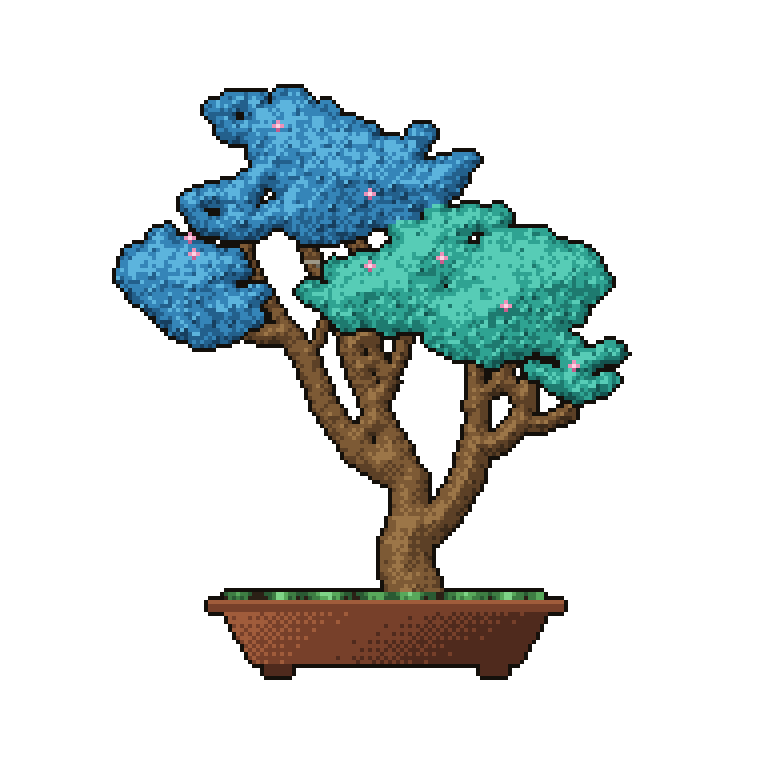
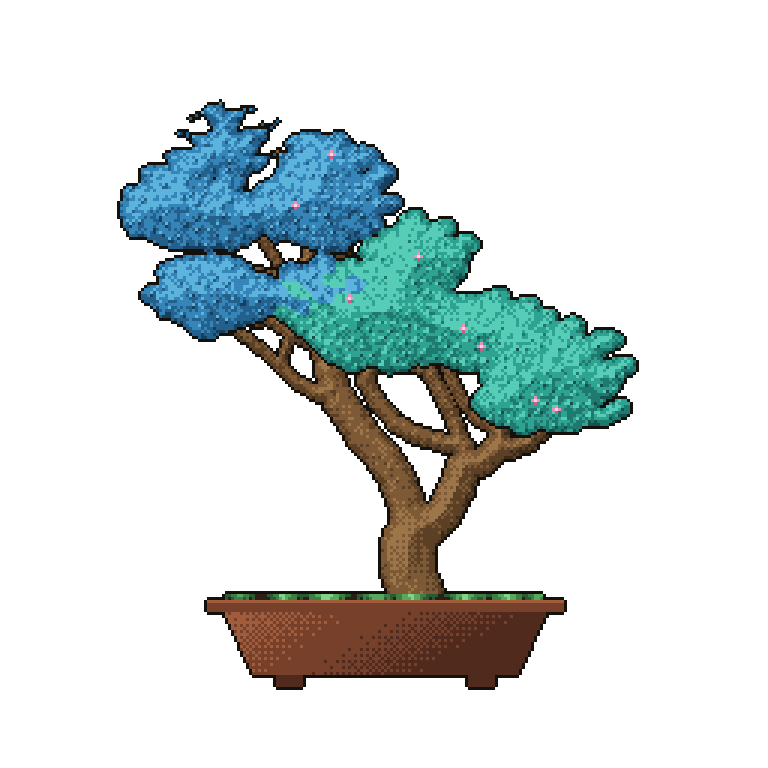
feat: bump native buffer to 256x256 for richer detail
All spatial constants (pot, margins, trunk/branch lengths, pad counts,
sway amplitude) scale with the new resolution; more foliage pads and
finer twigs relative to the tree. Default display upscale drops 4x -> 3x
to keep the output at 768px.

Claude-Session: https://claude.ai/code/session_016wzfiLTiSENdkKTfsVTFZx

Changed region(s): [[0.125, 0.0938, 0.8438, 0.9062]]

diff --git a/dist/src/skeleton.js b/dist/src/skeleton.js
@@ -4,9 +4,9 @@ exports.GROUND_Y = exports.H = exports.W = void 0;
 exports.buildSkeleton = buildSkeleton;
 const seed_1 = require("./seed");
 const poisson_1 = require("./poisson");
-exports.W = 192;
-exports.H = 192;
-exports.GROUND_Y = 150;
+exports.W = 256;
+exports.H = 256;
+exports.GROUND_Y = 200;
 /**
  * Build the branch graph: a stochastic parametric L-system grows the trunk and
  * primary branches, then space colonization (Runions) grows fine twigs at each
@@ -15,7 +15,7 @@ exports.GROUND_Y = 150;
 function buildSkeleton(dna, rng) {
     const segs = [];
     const padSites = [];
-    const baseX = exports.W / 2 - Math.sign(dna.lean) * (dna.style === 'cascade' ? 18 : 8);
+    const baseX = exports.W / 2 - Math.sign(dna.lean) * (dna.style === 'cascade' ? 24 : 11);
     const sPhase = rng() * Math.PI * 2; // phase of the trunk's S-curve
     let clock = 0;
     const shapedAngle = (dir, order, traveled, totalLen) => {
@@ -38,7 +38,7 @@ function buildSkeleton(dna, rng) {
         return out;
     };
     const grow = (x, y, dir, len, order, parent, traveled) => {
-        if (len < 6.5 || order > dna.iterations) {
+        if (len < 8.5 || order > dna.iterations) {
             if (order >= 2)
                 padSites.push({ x, y, segIdx: parent, order });
             return;
@@ -54,16 +54,16 @@ function buildSkeleton(dna, rng) {
             pdir = shapedAngle(pdir, order, traveled, dna.trunkLen * 2.2);
             pdir += (0, seed_1.range)(rng, -0.22, 0.22) * (order === 0 ? 1.2 : 1); // trunk gets S-curves
             // keep the tree inside the canvas
-            const margin = 14;
+            const margin = 19;
             if (px < margin)
                 pdir += (Math.abs(angleDiff(0, pdir)) < 1.8 ? 0 : 0.3);
             if (px < margin && Math.cos(pdir) < 0)
                 pdir = mixAngle(pdir, 0, 0.5);
             if (px > exports.W - margin && Math.cos(pdir) > 0)
                 pdir = mixAngle(pdir, Math.PI, 0.5);
-            if (py < 18 && Math.sin(pdir) < 0)
+            if (py < 24 && Math.sin(pdir) < 0)
                 pdir = mixAngle(pdir, 0.2 * sideSign, 0.4);
-            if (py > exports.H - 8 && Math.sin(pdir) > 0)
+            if (py > exports.H - 10 && Math.sin(pdir) > 0)
                 pdir = mixAngle(pdir, -Math.PI / 2, 0.5);
             const sl = stepLen * (0, seed_1.range)(rng, 0.85, 1.15);
             const nx = px + Math.cos(pdir) * sl;
@@ -99,7 +99,7 @@ function buildSkeleton(dna, rng) {
     for (const s of segs)
         s.epoch = s.birth / 0.75 <= dna.epochSplit ? 0 : 1;
     // cap foliage pads: dense trees would otherwise explode twig counts
-    const maxPads = 34 + Math.round(dna.foliage * 26);
+    const maxPads = 45 + Math.round(dna.foliage * 35);
     let sites = padSites;
     if (sites.length > maxPads) {
         const step = sites.length / maxPads;
@@ -117,7 +117,7 @@ function buildSkeleton(dna, rng) {
         const birth = parentSeg ? parentSeg.birth + 0.05 : 0.5;
         const dead = deadSet.has(i);
         const epoch = parentSeg ? parentSeg.epoch : 1;
-        const padR = (6 + dna.foliage * 8) * (0, seed_1.range)(rng, 0.8, 1.2);
+        const padR = (8 + dna.foliage * 10.5) * (0, seed_1.range)(rng, 0.8, 1.2);
         const tips = growTwigs(segs, site, dead, birth, padR, dna, rng);
         pads.push({ x: site.x, y: site.y, r: padR, birth: Math.min(birth, 0.95), dead, epoch, tips });
     });

diff --git a/dist/src/render.js b/dist/src/render.js
@@ -24,10 +24,10 @@ function renderFrame(dna, skel, opts = {}) {
         ? (x) => x
         : (x, y) => {
             const hf = Math.max(0, skel.groundY - y) / skel.groundY;
-            const amp = 1.5 * hf * hf + 0.25 * hf;
-            const wave = Math.sin(phase + (skel.groundY - y) * 0.05 + x * 0.012);
+            const amp = 2.0 * hf * hf + 0.33 * hf;
+            const wave = Math.sin(phase + (skel.groundY - y) * 0.0375 + x * 0.009);
             // noise sampled on a circle in noise-space so the loop is seamless
-            const n = noise(x * 0.03 + Math.cos(phase) * 0.8, y * 0.03 + Math.sin(phase) * 0.8);
+            const n = noise(x * 0.0225 + Math.cos(phase) * 0.8, y * 0.0225 + Math.sin(phase) * 0.8);
             return x + amp * (0.7 * wave + 0.55 * n);
         };
     // rasterize wood into alive/dead masks, then shade with SDF volume + dithering
@@ -68,31 +68,35 @@ function renderFrame(dna, skel, opts = {}) {
 function drawPot(frame, dna, skel, noise) {
     const cx = skeleton_1.W / 2;
     const gy = skel.groundY;
+    const rimHalf = Math.round(skeleton_1.W * 0.23); // 59 at 256
+    const bodyHalf = Math.round(rimHalf * 0.9); // 53
+    const bodyH = Math.round(skeleton_1.W * 0.082); // 21
     // rim
-    for (let y = gy; y <= gy + 2; y++) {
-        for (let x = cx - 44; x <= cx + 44; x++) {
+    for (let y = gy; y <= gy + 3; y++) {
+        for (let x = cx - rimHalf; x <= cx + rimHalf; x++) {
             frame.set(x, y, y === gy ? palette_1.POT[2] : palette_1.POT[1], raster_1.CLS_POT);
         }
     }
     // body with simple lit-left banding + dithering
-    for (let y = gy + 3; y <= gy + 15; y++) {
-        const half = Math.round(40 - ((y - gy - 3) / 12) * 7);
+    for (let y = gy + 4; y <= gy + 3 + bodyH; y++) {
+        const half = Math.round(bodyHalf - ((y - gy - 4) / bodyH) * bodyHalf * 0.18);
         for (let x = cx - half; x <= cx + half; x++) {
             const u = (x - (cx - half)) / (half * 2);
-            const v = 1 - u * 0.9 - (y - gy) * 0.02 + (0, shade_1.bayer)(x, y) * 0.4;
+            const v = 1 - u * 0.9 - (y - gy) * 0.015 + (0, shade_1.bayer)(x, y) * 0.4;
             const band = (0, seed_1.clamp)(Math.round(v * (palette_1.POT.length - 1)), 0, palette_1.POT.length - 1);
             frame.set(x, y, palette_1.POT[band], raster_1.CLS_POT);
         }
     }
     // feet
-    for (let y = gy + 16; y <= gy + 18; y++) {
-        for (let x = cx - 30; x <= cx - 24; x++)
+    const footIn = Math.round(bodyHalf * 0.6);
+    for (let y = gy + 4 + bodyH; y <= gy + 7 + bodyH; y++) {
+        for (let x = cx - footIn - 4; x <= cx - footIn + 4; x++)
             frame.set(x, y, palette_1.POT[0], raster_1.CLS_POT);
-        for (let x = cx + 24; x <= cx + 30; x++)
+        for (let x = cx + footIn - 4; x <= cx + footIn + 4; x++)
             frame.set(x, y, palette_1.POT[0], raster_1.CLS_POT);
     }
     // soil mosaic: 52 weeks of contributions across the pot's mouth
-    const soilHalf = 40;
+    const soilHalf = bodyHalf;
     const soilW = soilHalf * 2;
     for (let i = 0; i < 52; i++) {
         const x0 = cx - soilHalf + Math.floor((i * soilW) / 52);

diff --git a/src/skeleton.ts b/src/skeleton.ts
@@ -39,9 +39,9 @@ export interface Skeleton {
   groundY: number;
 }
 
-export const W = 192;
-export const H = 192;
-export const GROUND_Y = 150;
+export const W = 256;
+export const H = 256;
+export const GROUND_Y = 200;
 
 interface PadSite {
   x: number;
@@ -58,7 +58,7 @@ interface PadSite {
 export function buildSkeleton(dna: BonsaiDNA, rng: Rng): Skeleton {
   const segs: Seg[] = [];
   const padSites: PadSite[] = [];
-  const baseX = W / 2 - Math.sign(dna.lean) * (dna.style === 'cascade' ? 18 : 8);
+  const baseX = W / 2 - Math.sign(dna.lean) * (dna.style === 'cascade' ? 24 : 11);
   const sPhase = rng() * Math.PI * 2; // phase of the trunk's S-curve
   let clock = 0;
 
@@ -89,7 +89,7 @@ export function buildSkeleton(dna: BonsaiDNA, rng: Rng): Skeleton {
     parent: number,
     traveled: number,
   ): void => {
-    if (len < 6.5 || order > dna.iterations) {
+    if (len < 8.5 || order > dna.iterations) {
       if (order >= 2) padSites.push({ x, y, segIdx: parent, order });
       return;
     }
@@ -105,12 +105,12 @@ export function buildSkeleton(dna: BonsaiDNA, rng: Rng): Skeleton {
       pdir = shapedAngle(pdir, order, traveled, dna.trunkLen * 2.2);
       pdir += range(rng, -0.22, 0.22) * (order === 0 ? 1.2 : 1); // trunk gets S-curves
       // keep the tree inside the canvas
-      const margin = 14;
+      const margin = 19;
       if (px < margin) pdir += (Math.abs(angleDiff(0, pdir)) < 1.8 ? 0 : 0.3);
       if (px < margin && Math.cos(pdir) < 0) pdir = mixAngle(pdir, 0, 0.5);
       if (px > W - margin && Math.cos(pdir) > 0) pdir = mixAngle(pdir, Math.PI, 0.5);
-      if (py < 18 && Math.sin(pdir) < 0) pdir = mixAngle(pdir, 0.2 * sideSign, 0.4);
-      if (py > H - 8 && Math.sin(pdir) > 0) pdir = mixAngle(pdir, -Math.PI / 2, 0.5);
+      if (py < 24 && Math.sin(pdir) < 0) pdir = mixAngle(pdir, 0.2 * sideSign, 0.4);
+      if (py > H - 10 && Math.sin(pdir) > 0) pdir = mixAngle(pdir, -Math.PI / 2, 0.5);
 
       const sl = stepLen * range(rng, 0.85, 1.15);
       const nx = px + Math.cos(pdir) * sl;
@@ -149,7 +149,7 @@ export function buildSkeleton(dna: BonsaiDNA, rng: Rng): Skeleton {
   for (const s of segs) s.epoch = s.birth / 0.75 <= dna.epochSplit ? 0 : 1;
 
   // cap foliage pads: dense trees would otherwise explode twig counts
-  const maxPads = 34 + Math.round(dna.foliage * 26);
+  const maxPads = 45 + Math.round(dna.foliage * 35);
   let sites = padSites;
   if (sites.length > maxPads) {
     const step = sites.length / maxPads;
@@ -169,7 +169,7 @@ export function buildSkeleton(dna: BonsaiDNA, rng: Rng): Skeleton {
     const birth = parentSeg ? parentSeg.birth + 0.05 : 0.5;
     const dead = deadSet.has(i);
     const epoch = parentSeg ? parentSeg.epoch : 1;
-    const padR = (6 + dna.foliage * 8) * range(rng, 0.8, 1.2);
+    const padR = (8 + dna.foliage * 10.5) * range(rng, 0.8, 1.2);
     const tips = growTwigs(segs, site, dead, birth, padR, dna, rng);
     pads.push({ x: site.x, y: site.y, r: padR, birth: Math.min(birth, 0.95), dead, epoch, tips });
   });

diff --git a/src/render.ts b/src/render.ts
@@ -35,10 +35,10 @@ export function renderFrame(dna: BonsaiDNA, skel: Skeleton, opts: RenderOpts = {
     ? (x) => x
     : (x, y) => {
       const hf = Math.max(0, skel.groundY - y) / skel.groundY;
-      const amp = 1.5 * hf * hf + 0.25 * hf;
-      const wave = Math.sin(phase + (skel.groundY - y) * 0.05 + x * 0.012);
+      const amp = 2.0 * hf * hf + 0.33 * hf;
+      const wave = Math.sin(phase + (skel.groundY - y) * 0.0375 + x * 0.009);
       // noise sampled on a circle in noise-space so the loop is seamless
-      const n = noise(x * 0.03 + Math.cos(phase) * 0.8, y * 0.03 + Math.sin(phase) * 0.8);
+      const n = noise(x * 0.0225 + Math.cos(phase) * 0.8, y * 0.0225 + Math.sin(phase) * 0.8);
       return x + amp * (0.7 * wave + 0.55 * n);
     };
 
@@ -82,31 +82,35 @@ export function renderFrame(dna: BonsaiDNA, skel: Skeleton, opts: RenderOpts = {
 function drawPot(frame: Frame, dna: BonsaiDNA, skel: Skeleton, noise: Noise2): void {
   const cx = W / 2;
   const gy = skel.groundY;
+  const rimHalf = Math.round(W * 0.23);       // 59 at 256
+  const bodyHalf = Math.round(rimHalf * 0.9); // 53
+  const bodyH = Math.round(W * 0.082);        // 21
 
   // rim
-  for (let y = gy; y <= gy + 2; y++) {
-    for (let x = cx - 44; x <= cx + 44; x++) {
+  for (let y = gy; y <= gy + 3; y++) {
+    for (let x = cx - rimHalf; x <= cx + rimHalf; x++) {
       frame.set(x, y, y === gy ? POT[2] : POT[1], CLS_POT);
     }
   }
   // body with simple lit-left banding + dithering
-  for (let y = gy + 3; y <= gy + 15; y++) {
-    const half = Math.round(40 - ((y - gy - 3) / 12) * 7);
+  for (let y = gy + 4; y <= gy + 3 + bodyH; y++) {
+    const half = Math.round(bodyHalf - ((y - gy - 4) / bodyH) * bodyHalf * 0.18);
     for (let x = cx - half; x <= cx + half; x++) {
       const u = (x - (cx - half)) / (half * 2);
-      const v = 1 - u * 0.9 - (y - gy) * 0.02 + bayer(x, y) * 0.4;
+      const v = 1 - u * 0.9 - (y - gy) * 0.015 + bayer(x, y) * 0.4;
       const band = clamp(Math.round(v * (POT.length - 1)), 0, POT.length - 1);
       frame.set(x, y, POT[band], CLS_POT);
     }
   }
   // feet
-  for (let y = gy + 16; y <= gy + 18; y++) {
-    for (let x = cx - 30; x <= cx - 24; x++) frame.set(x, y, POT[0], CLS_POT);
-    for (let x = cx + 24; x <= cx + 30; x++) frame.set(x, y, POT[0], CLS_POT);
+  const footIn = Math.round(bodyHalf * 0.6);
+  for (let y = gy + 4 + bodyH; y <= gy + 7 + bodyH; y++) {
+    for (let x = cx - footIn - 4; x <= cx - footIn + 4; x++) frame.set(x, y, POT[0], CLS_POT);
+    for (let x = cx + footIn - 4; x <= cx + footIn + 4; x++) frame.set(x, y, POT[0], CLS_POT);
   }
 
   // soil mosaic: 52 weeks of contributions across the pot's mouth
-  const soilHalf = 40;
+  const soilHalf = bodyHalf;
   const soilW = soilHalf * 2;
   for (let i = 0; i < 52; i++) {
     const x0 = cx - soilHalf + Math.floor((i * soilW) / 52);

diff --git a/dist/src/dna.js b/dist/src/dna.js
@@ -16,8 +16,8 @@ function deriveDna(metrics, rng) {
     const activity = sat(Math.log10(metrics.totalContributions + 1) / 4.5); // ~30k commits -> 1.0
     // account age -> trunk height, growth iterations, base thickness
     const iterations = (0, seed_1.clamp)(3 + Math.floor(ageYears / 3), 3, 6);
-    const trunkLen = 20 + Math.min(ageYears, 12) * 1.9 + (0, seed_1.range)(rng, -1.5, 1.5);
-    const baseRadius = (0, seed_1.clamp)(2.5 + Math.min(ageYears, 12) * 0.26 + activity * 1.6, 2.5, 6.5);
+    const trunkLen = 27 + Math.min(ageYears, 12) * 2.5 + (0, seed_1.range)(rng, -2, 2);
+    const baseRadius = (0, seed_1.clamp)(3.3 + Math.min(ageYears, 12) * 0.35 + activity * 2.1, 3.3, 8.7);
     // total contributions -> branch density & foliage
     const branchChance = 0.26 + 0.3 * activity + (0, seed_1.range)(rng, -0.03, 0.03);
     const foliage = sat(0.35 + 0.6 * activity + (0, seed_1.range)(rng, -0.05, 0.05));

diff --git a/dist/src/cli.js b/dist/src/cli.js
@@ -50,7 +50,7 @@ Options:
   --fixture  Path to a normalized metrics JSON (offline, reproducible)
   --synth    Fabricate deterministic demo metrics from a name (offline)
   --out      Output directory (default: output)
-  --scale    Integer upscale factor for SVG/PNG (default: 4)
+  --scale    Integer upscale factor for SVG/PNG (default: 3)
 
 Outputs: bonsai.svg, bonsai.png, bonsai.gif (wind), bonsai-growth.gif (timelapse)
 `;
@@ -67,7 +67,7 @@ async function main() {
     const fixture = arg('fixture');
     const synth = arg('synth');
     const outDir = arg('out') ?? 'output';
-    const scale = Number(arg('scale') ?? 4);
+    const scale = Number(arg('scale') ?? 3);
     let metrics;
     if (fixture) {
         metrics = (0, data_1.loadFixture)(fixture);

diff --git a/src/cli.ts b/src/cli.ts
@@ -17,7 +17,7 @@ Options:
   --fixture  Path to a normalized metrics JSON (offline, reproducible)
   --synth    Fabricate deterministic demo metrics from a name (offline)
   --out      Output directory (default: output)
-  --scale    Integer upscale factor for SVG/PNG (default: 4)
+  --scale    Integer upscale factor for SVG/PNG (default: 3)
 
 Outputs: bonsai.svg, bonsai.png, bonsai.gif (wind), bonsai-growth.gif (timelapse)
 `;
@@ -36,7 +36,7 @@ async function main(): Promise<void> {
   const fixture = arg('fixture');
   const synth = arg('synth');
   const outDir = arg('out') ?? 'output';
-  const scale = Number(arg('scale') ?? 4);
+  const scale = Number(arg('scale') ?? 3);
 
   let metrics: Metrics;
   if (fixture) {

diff --git a/src/dna.ts b/src/dna.ts
@@ -21,8 +21,8 @@ export function deriveDna(metrics: Metrics, rng: Rng): BonsaiDNA {
 
   // account age -> trunk height, growth iterations, base thickness
   const iterations = clamp(3 + Math.floor(ageYears / 3), 3, 6);
-  const trunkLen = 20 + Math.min(ageYears, 12) * 1.9 + range(rng, -1.5, 1.5);
-  const baseRadius = clamp(2.5 + Math.min(ageYears, 12) * 0.26 + activity * 1.6, 2.5, 6.5);
+  const trunkLen = 27 + Math.min(ageYears, 12) * 2.5 + range(rng, -2, 2);
+  const baseRadius = clamp(3.3 + Math.min(ageYears, 12) * 0.35 + activity * 2.1, 3.3, 8.7);
 
   // total contributions -> branch density & foliage
   const branchChance = 0.26 + 0.3 * activity + range(rng, -0.03, 0.03);

diff --git a/src/foliage.ts b/src/foliage.ts
@@ -39,7 +39,7 @@ export function drawFoliage(
     balls.push({ x: sway(pad.x, pad.y - 1), y: pad.y - 1, r: pad.r * 0.58 * grow, epoch: pad.epoch });
     for (const tip of pad.tips) {
       if (tip.birth > t) continue;
-      const tr = (3.1 + dna.foliage * 1.6) * ease((t - tip.birth) / 0.1);
+      const tr = (3.6 + dna.foliage * 1.9) * ease((t - tip.birth) / 0.1);
       balls.push({ x: sway(tip.x, tip.y), y: tip.y, r: tr, epoch: pad.epoch });
     }
   }

diff --git a/dist/src/foliage.js b/dist/src/foliage.js
@@ -28,7 +28,7 @@ function drawFoliage(frame, dna, skel, t, sway, rng, noise) {
         for (const tip of pad.tips) {
             if (tip.birth > t)
                 continue;
-            const tr = (3.1 + dna.foliage * 1.6) * ease((t - tip.birth) / 0.1);
+            const tr = (3.6 + dna.foliage * 1.9) * ease((t - tip.birth) / 0.1);
             balls.push({ x: sway(tip.x, tip.y), y: tip.y, r: tr, epoch: pad.epoch });
         }
     }

diff --git a/dist/src/index.js b/dist/src/index.js
@@ -20,7 +20,7 @@ Object.defineProperty(exports, "synthMetrics", { enumerable: true, get: function
  * Same metrics in, bit-identical bytes out.
  */
 function generate(metrics, opts = {}) {
-    const scale = opts.scale ?? 4;
+    const scale = opts.scale ?? 3; // 256 native -> 768 display
     const seedKey = metrics.username.toLowerCase();
     const rng = (0, seed_1.makeRng)(seedKey);
     const dna = (0, dna_1.deriveDna)(metrics, rng);

diff --git a/src/index.ts b/src/index.ts
@@ -35,7 +35,7 @@ export interface GenerateOptions {
  * Same metrics in, bit-identical bytes out.
  */
 export function generate(metrics: Metrics, opts: GenerateOptions = {}): BonsaiOutput {
-  const scale = opts.scale ?? 4;
+  const scale = opts.scale ?? 3; // 256 native -> 768 display
   const seedKey = metrics.username.toLowerCase();
   const rng = makeRng(seedKey);
   const dna = deriveDna(metrics, rng);
